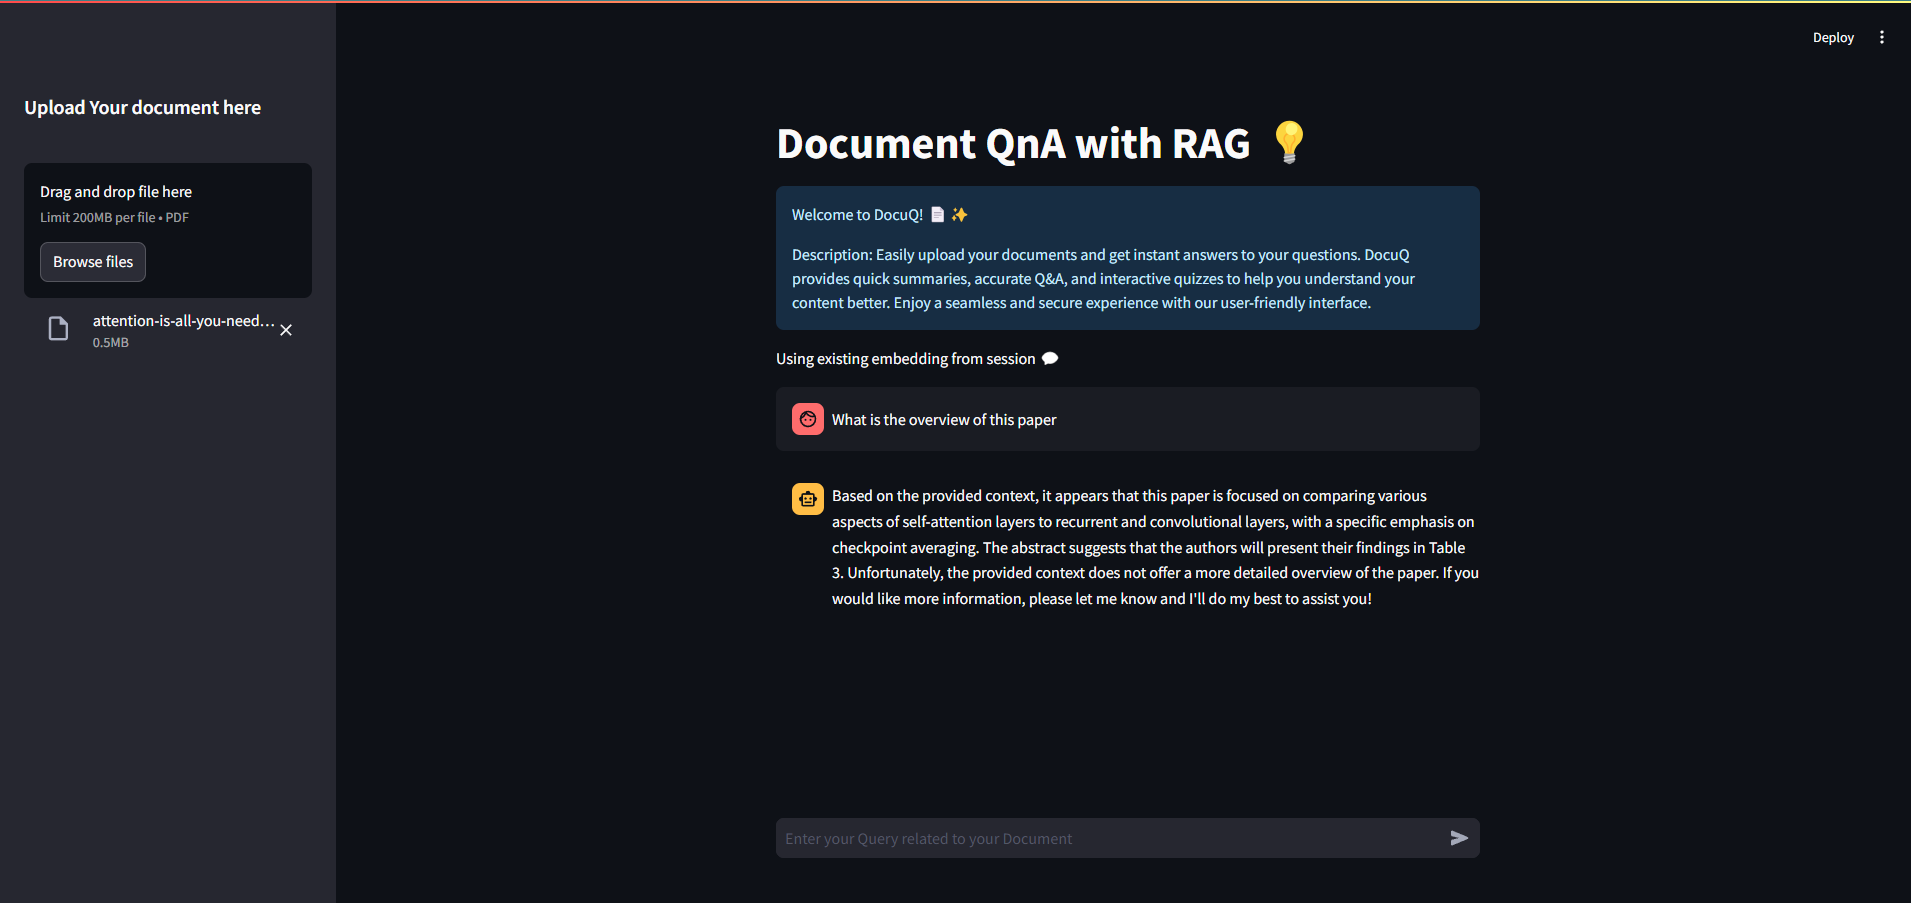
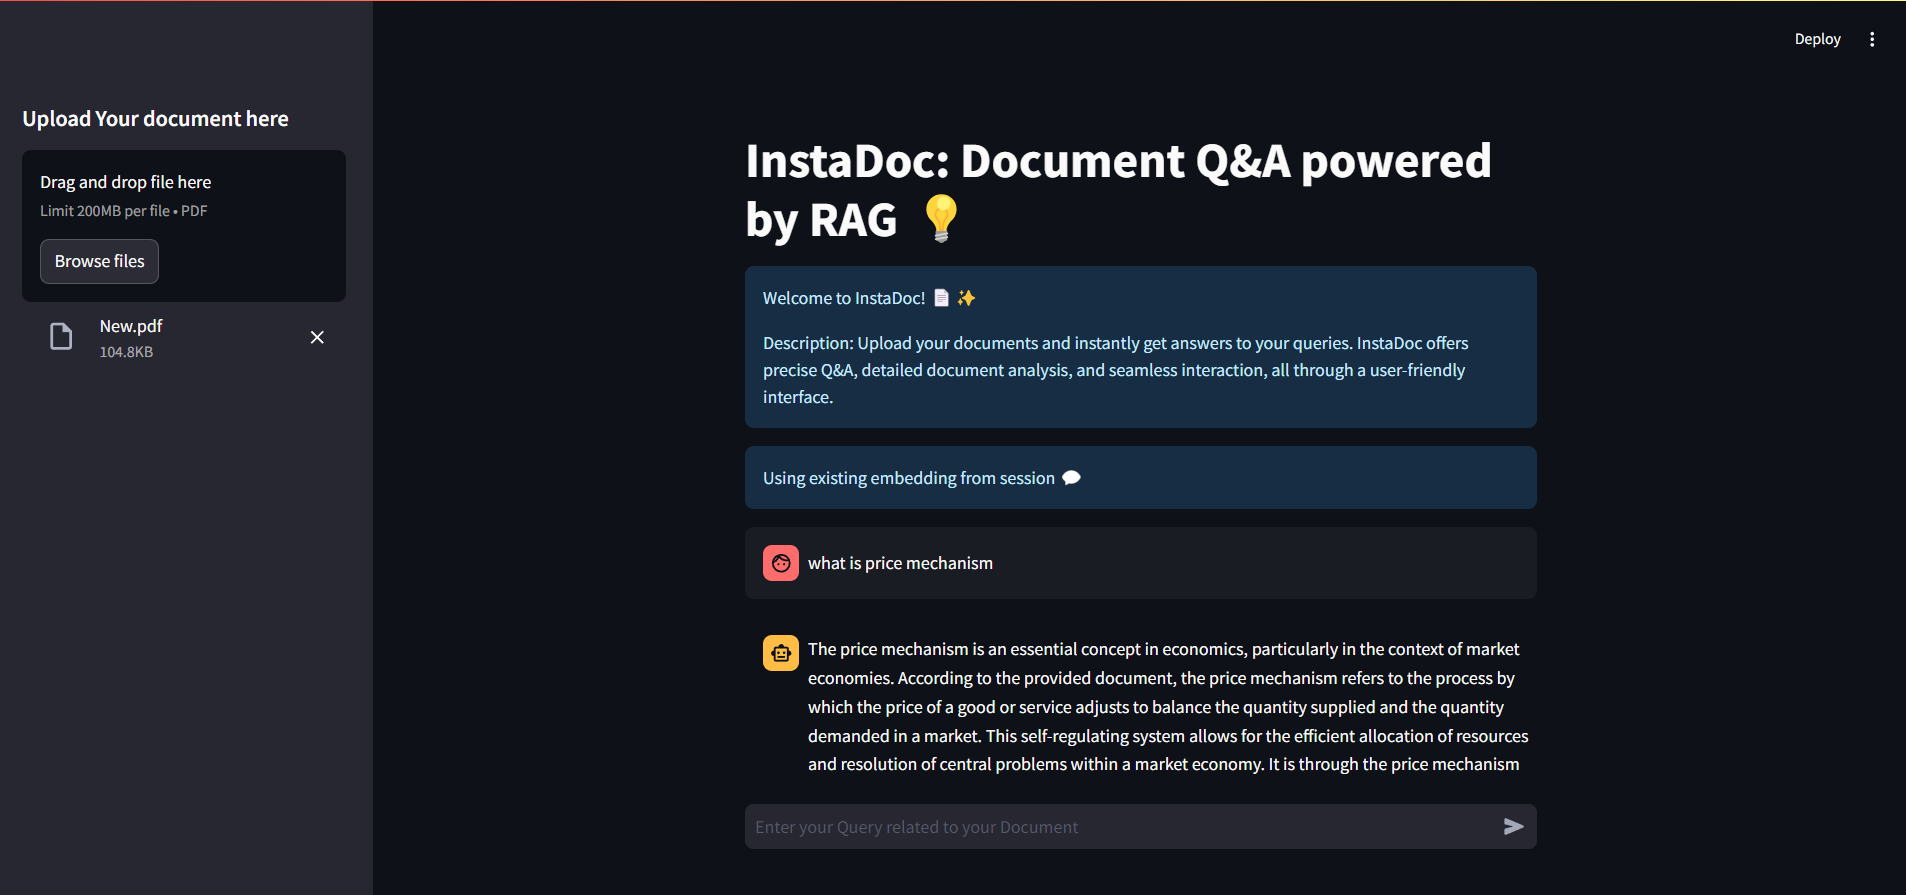
commit

Changed region(s): [[0.3715, 0.1207, 0.8048, 0.6939], [0.0, 0.0, 1.0, 1.0], [0.3715, 0.6939, 0.8048, 0.9654]]

diff --git a/main.py b/main.py
@@ -1,0 +1,94 @@
+import streamlit as st
+from PyPDF2 import PdfReader
+from langchain_community.vectorstores import Chroma
+from langchain_community.embeddings import HuggingFaceEmbeddings
+from nltk.tokenize import sent_tokenize
+from langchain_groq import ChatGroq
+from langchain.prompts import ChatPromptTemplate
+from langchain.chains.combine_documents import create_stuff_documents_chain
+from langchain.chains.retrieval import create_retrieval_chain
+from dotenv import load_dotenv
+import os
+import nltk
+
+# Explicitly download NLTK data
+nltk.download('punkt', quiet=True)
+
+load_dotenv()
+
+os.environ['GROQ_API_KEY'] = os.getenv('GROQ_API_KEY')
+
+st.set_page_config(page_title="InstaDoc: Document Q&A powered by RAG")
+
+st.title('InstaDoc: Document Q&A powered by RAG 💡')
+st.info('''Welcome to InstaDoc! 📄✨
+
+Description: Upload your documents and instantly get answers to your queries. InstaDoc offers precise Q&A, detailed document analysis, and seamless interaction, all through a user-friendly interface.''')
+
+llm = ChatGroq(model='mixtral-8x7b-32768')
+
+prompt = ChatPromptTemplate.from_template(
+    '''
+As an expert in document analysis, you have a comprehensive understanding of the content within the uploaded PDFs and are proficient in extracting and interpreting relevant information. Users will pose questions related to the document, seeking accurate and concise answers.
+
+If a question pertains to information not contained within the document, kindly inform the user that the document does not contain the requested information.
+
+In cases where the answer is not clear from the document, it is important to maintain honesty by stating 'I don't know' rather than providing potentially incorrect information.
+
+Below is a snippet of context from the relevant section of the document, which will not be shown to users.
+<context>
+Context: {context}
+Question: {input}
+</context>
+Your response should consist solely of useful information extracted from the document. Be polite and enhance your answer with detailed information.
+
+Useful information:
+
+'''
+)
+
+# Initialize session state
+if 'vector_store' not in st.session_state:
+    st.session_state.vector_store = None
+
+st.sidebar.header('Upload Your document here')
+file = st.sidebar.file_uploader(label='Upload PDF', type='pdf', label_visibility="collapsed")
+
+if file is not None:
+    if 'last_uploaded_file' not in st.session_state or st.session_state.last_uploaded_file != file.name:
+        st.session_state.last_uploaded_file = file.name
+        st.session_state.vector_store = None
+
+    if st.session_state.vector_store is None:
+        try:
+            pdf_reader = PdfReader(file)
+            text = ''
+            for page in pdf_reader.pages:
+                text += page.extract_text()
+
+            # Initialize HuggingFaceEmbeddings with the correct parameters
+            embeddings = HuggingFaceEmbeddings(model_name="all-MiniLM-L6-v2")
+
+            splitted_text = sent_tokenize(text)  # Using NLTK for text splitting
+
+            st.session_state.vector_store = Chroma.from_texts(texts=splitted_text, embedding=embeddings)  # Using ChromaDB
+            st.success('Embedding created and stored in session ✨')
+        except Exception as e:
+            st.error(f"An error occurred while processing the document: {str(e)}")
+    else:
+        st.info('Using existing embedding from session 💬')
+
+    user_prompt = st.chat_input('Enter your Query related to your Document')
+    if user_prompt:
+        try:
+            st.chat_message('user').markdown(user_prompt)
+            document_chain = create_stuff_documents_chain(llm, prompt)
+            retriever = st.session_state.vector_store.as_retriever()
+            retriever_chain = create_retrieval_chain(retriever, document_chain)
+            response = retriever_chain.invoke({'input': user_prompt})
+
+            st.chat_message('assistant').markdown(response['answer'])
+        except Exception as e:
+            st.error(f"An error occurred while processing your query: {str(e)}")
+else:
+    st.warning("Please upload a PDF document to start.")

diff --git a/app.py b/app.py
@@ -15,8 +15,8 @@ load_dotenv()
 os.environ['GROQ_API_KEY'] = os.getenv('GROQ_API_KEY')
 os.environ['GOOGLE_API_KEY'] = os.getenv('GOOGLE_API_KEY')
 
-st.title('Document QnA with RAG 💡')
-st.info('''Welcome to DocuQ! 📄✨
+st.title('InstaDoc: Document Qna powered by RAG 💡')
+st.info('''Welcome to InstaDoc! 📄✨
 
 Description: Easily upload your documents and get instant answers to your questions. DocuQ provides quick summaries, accurate Q&A, and interactive quizzes to help you understand your content better. Enjoy a seamless and secure experience with our user-friendly interface.''')
 

diff --git a/README.md b/README.md
@@ -1,26 +1,27 @@
-# 📄 DocuQ - Advanced Document QnA with Retrieval Augmented Generation (RAG) and Large Language Model (LLM)💡
+# 📄 InstaDoc: Document Q&A powered by RAG 💡
 
 ## Overview ✨
 
-Welcome to **DocuQ**! This powerful Streamlit application allows you to upload PDF documents and get instant, accurate answers to your questions. With **DocuQ**, you can enjoy quick summaries, precise Q&A, and interactive features to help you better understand your content.
+Welcome to **InstaDoc**! This powerful Streamlit application allows you to upload PDF documents and get instant, accurate answers to your questions. InstaDoc offers precise Q&A, detailed document analysis, and seamless interaction, all through a user-friendly interface.
 
 ![](assets/image.png)
 
 ## 🚀 Features
 
-- **Upload PDFs**: Seamlessly upload your PDF documents and let DocuQ process them for you.
+- **Upload PDFs**: Seamlessly upload your PDF documents and let InstaDoc process them for you.
 - **Instant Answers**: Ask questions related to your document and get immediate, accurate responses.
-- **Contextual Summaries**: Get concise summaries and relevant information extracted from the document.
-- **User-Friendly Interface**: Enjoy a smooth and intuitive experience with an easy-to-use interface.
+- **Contextual Analysis**: Get relevant information extracted from the document based on your queries.
+- **User-Friendly Interface**: Enjoy a smooth and intuitive experience with an easy-to-use chat interface.
 
 ## 🛠 Technologies Used
 
 - **Streamlit**: For building the interactive web application.
 - **PyPDF2**: To handle PDF file reading.
 - **LangChain**: For advanced document processing and question-answering.
-- **FAISS**: For efficient similarity search and vector storage.
-- **ChatGroq**: For leveraging the Llama3 model in document analysis.
-- **GoogleGenerativeAIEmbeddings**: For generating embeddings used in document processing.
+- **Chroma**: For efficient similarity search and vector storage.
+- **ChatGroq**: For leveraging the Mixtral-8x7b-32768 model in document analysis.
+- **HuggingFaceEmbeddings**: For generating embeddings used in document processing.
+- **NLTK**: For natural language processing tasks, specifically sentence tokenization.
 - **dotenv**: To manage API keys and environment variables securely.
 
 ## Setup and Installation
@@ -28,8 +29,8 @@ Welcome to **DocuQ**! This powerful Streamlit application allows you to upload P
 1. **Clone the repository:**
 
    ```bash
-   git clone https://github.com/yourusername/AdvancedDocQnA-RAG.git
-   cd AdvancedDocQnA-RAG
+   git clone https://github.com/yourusername/InstaDoc-Intelligent-QnA-Powered-by-RAG.git
+   cd InstaDoc-Intelligent-QnA-Powered-by-RAG
    ```
 
 2. **Install the required packages:**
@@ -40,17 +41,16 @@ Welcome to **DocuQ**! This powerful Streamlit application allows you to upload P
 
 3. **Set up environment variables:**
 
-   Create a `.env` file in the root directory and add your API keys:
+   Create a `.env` file in the root directory and add your API key:
 
    ```
    GROQ_API_KEY=your_groq_api_key
-   GOOGLE_API_KEY=your_google_api_key
    ```
 
 4. **Run the Streamlit application:**
 
    ```bash
-   streamlit run app.py
+   streamlit run main.py
    ```
 
 ## 🎨 How to Use
@@ -58,12 +58,12 @@ Welcome to **DocuQ**! This powerful Streamlit application allows you to upload P
 1. **Run the Application**:
 
    ```bash
-   streamlit run app.py
+   streamlit run main.py
    ```
 
 2. **Upload a PDF**:
 
-   - Click on the "Upload your Pdf Here" button to upload a PDF document.
+   - Use the sidebar to upload a PDF document.
    - The application will process the document and create embeddings for it.
 
 3. **Ask Your Questions**:
@@ -81,25 +81,26 @@ Welcome to **DocuQ**! This powerful Streamlit application allows you to upload P
 
 ### Upload PDFs
 
-Easily upload PDF files using the Streamlit interface. DocuQ will handle the file processing and prepare it for question-answering.
+Easily upload PDF files using the Streamlit interface. InstaDoc will handle the file processing and prepare it for question-answering.
 
 ### Instant Answers
 
 Ask questions about the content of the uploaded document. The system will use advanced language models to provide relevant and accurate answers.
 
-### Contextual Summaries
+### Contextual Analysis
 
-Get brief summaries of your document’s content to quickly understand its key points.
+Get detailed information extracted from your document based on your specific queries.
 
 ## 🔧 Troubleshooting
 
 - **Issue**: Application fails to run.
-- **Solution**: Ensure all dependencies are installed correctly and environment variables are set up in the `.env` file.
+- **Solution**: Ensure all dependencies are installed correctly and the GROQ_API_KEY is set up in the `.env` file.
 
 ## 🌟 Contributing
 
-We welcome contributions to improve DocuQ! If you'd like to contribute, please fork the repository, make your changes, and submit a pull request. For major changes, please open an issue first to discuss what you would like to change.
+We welcome contributions to improve InstaDoc! If you'd like to contribute, please fork the repository, make your changes, and submit a pull request. For major changes, please open an issue first to discuss what you would like to change.
 
 ## 📝 License
 
-This project is licensed under the MIT License - see the [LICENSE](https://github.com/MohdRasmil7/AdvancedDocQnA-RAG/blob/main/LICENSE) file for details.
+This project is licensed under the MIT License - see the [LICENSE](https://github.com/MohdRasmil7/InstaDoc-Intelligent-QnA-Powered-by-RAG
+/blob/main/LICENSE) file for details.
